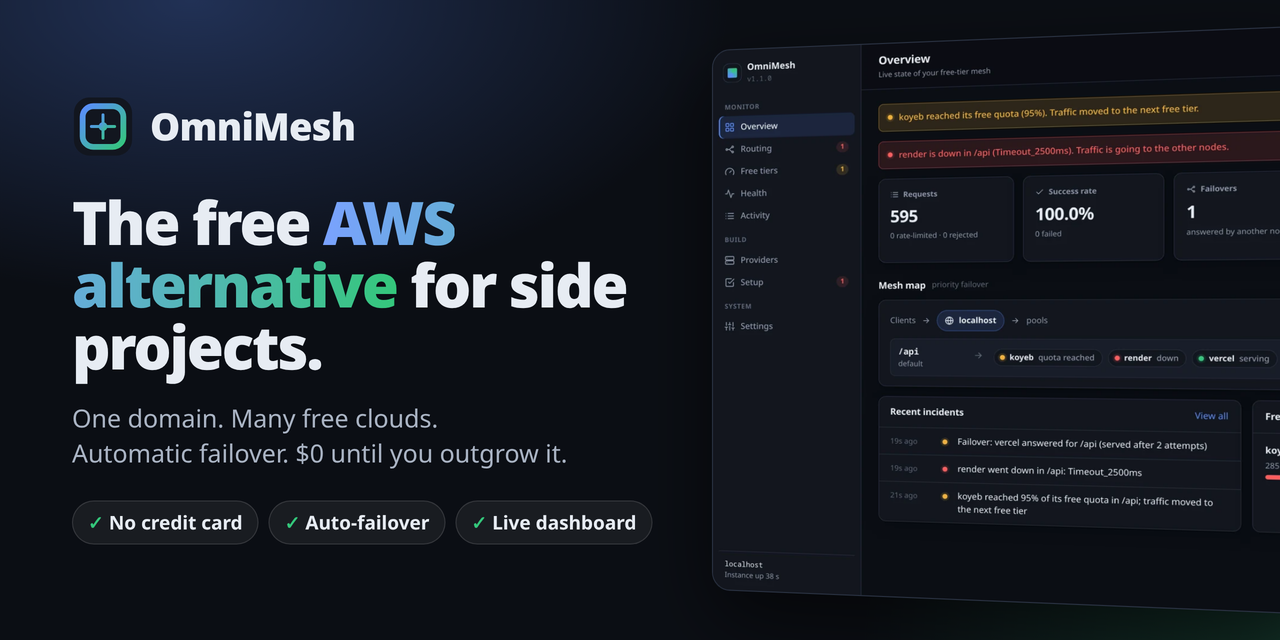
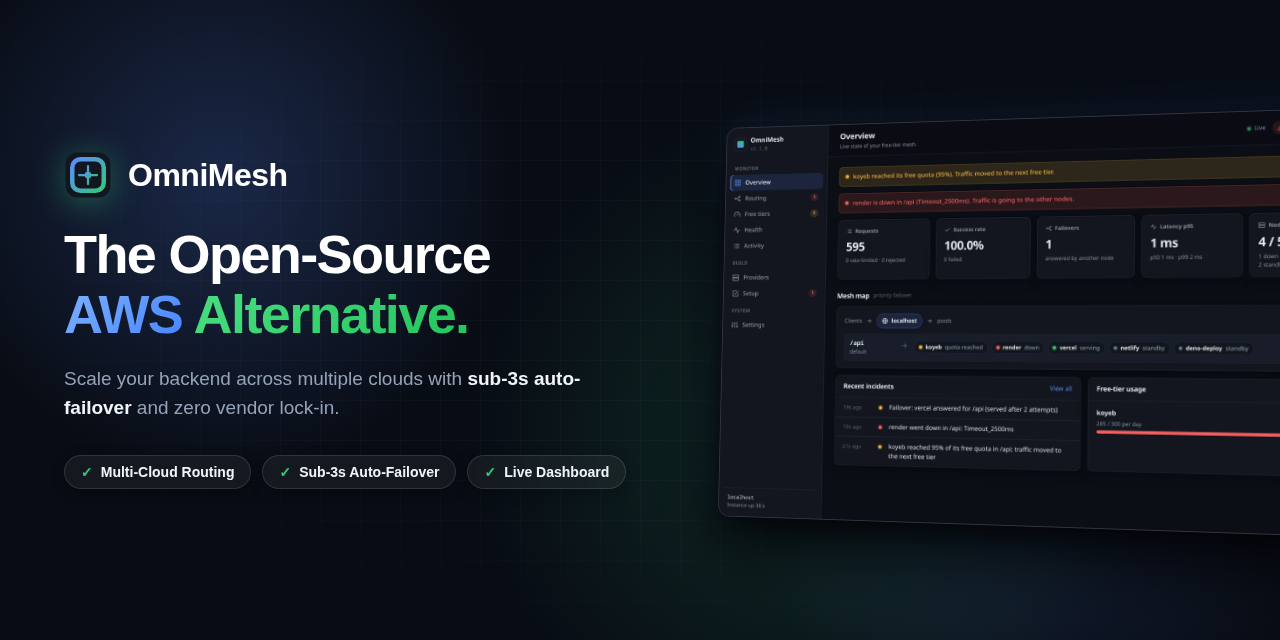
docs: position as open-source AWS alternative and update social preview card

diff --git a/README.md b/README.md
@@ -4,9 +4,9 @@
 
 # OmniMesh
 
-### The free AWS alternative for side projects, MVPs and student apps.
+### The open-source AWS alternative: scale across multiple clouds with sub-3s auto-failover.
 
-**One domain. Many free clouds. Automatic failover. $0 until you outgrow it.**
+**One domain. Many clouds. Sub-3s auto-failover. Zero vendor lock-in.**
 
 [![CI](https://github.com/a-swini16/omnimesh/actions/workflows/ci.yml/badge.svg)](https://github.com/a-swini16/omnimesh/actions/workflows/ci.yml)
 [![License: MIT](https://img.shields.io/badge/license-MIT-blue.svg)](LICENSE)
@@ -25,9 +25,9 @@
 
 ## Why OmniMesh
 
-AWS is powerful, but a surprise bill can sink a student project or a pre-revenue MVP. Free tiers cost nothing, but each one has a catch: it sleeps, it caps requests, or it goes down, and when it does, so does your app.
+AWS is powerful, but complex, expensive, and locks you into a single vendor. Running resilient infrastructure shouldn't require thousands of dollars in cloud bills or a team of DevOps engineers.
 
-**OmniMesh puts one router in front of many free tiers.** It does for servers what [OmniRoute](https://github.com/cheaper-inference/OmniRoute) does for AI providers: one entry point, many interchangeable backends, automatic failover.
+**OmniMesh puts one unified router in front of multiple cloud tiers.** It does for backend infrastructure what [OmniRoute](https://github.com/cheaper-inference/OmniRoute) does for AI models: one entry point, resilient multi-cloud federation, and instantaneous automatic failover.
 
 |  | AWS | One free tier | **OmniMesh** |
 | :--- | :--- | :--- | :--- |

diff --git a/docs/ARCHITECTURE.md b/docs/ARCHITECTURE.md
@@ -28,7 +28,7 @@
    4. Runs omnimesh chaos to kill a server and watch traffic move to another one live.
 
   Positioning (what the README says): "Your free tiers, merged into one cloud." It is a
-  resilient zero-cost backend for side projects, MVPs and early startups. It is not marketed
+  resilient multi-cloud backend for modern apps, startups and production systems. It is not marketed
   as unlimited, and not as a replacement for AWS at Flipkart scale.
 
   2. Will it work?
